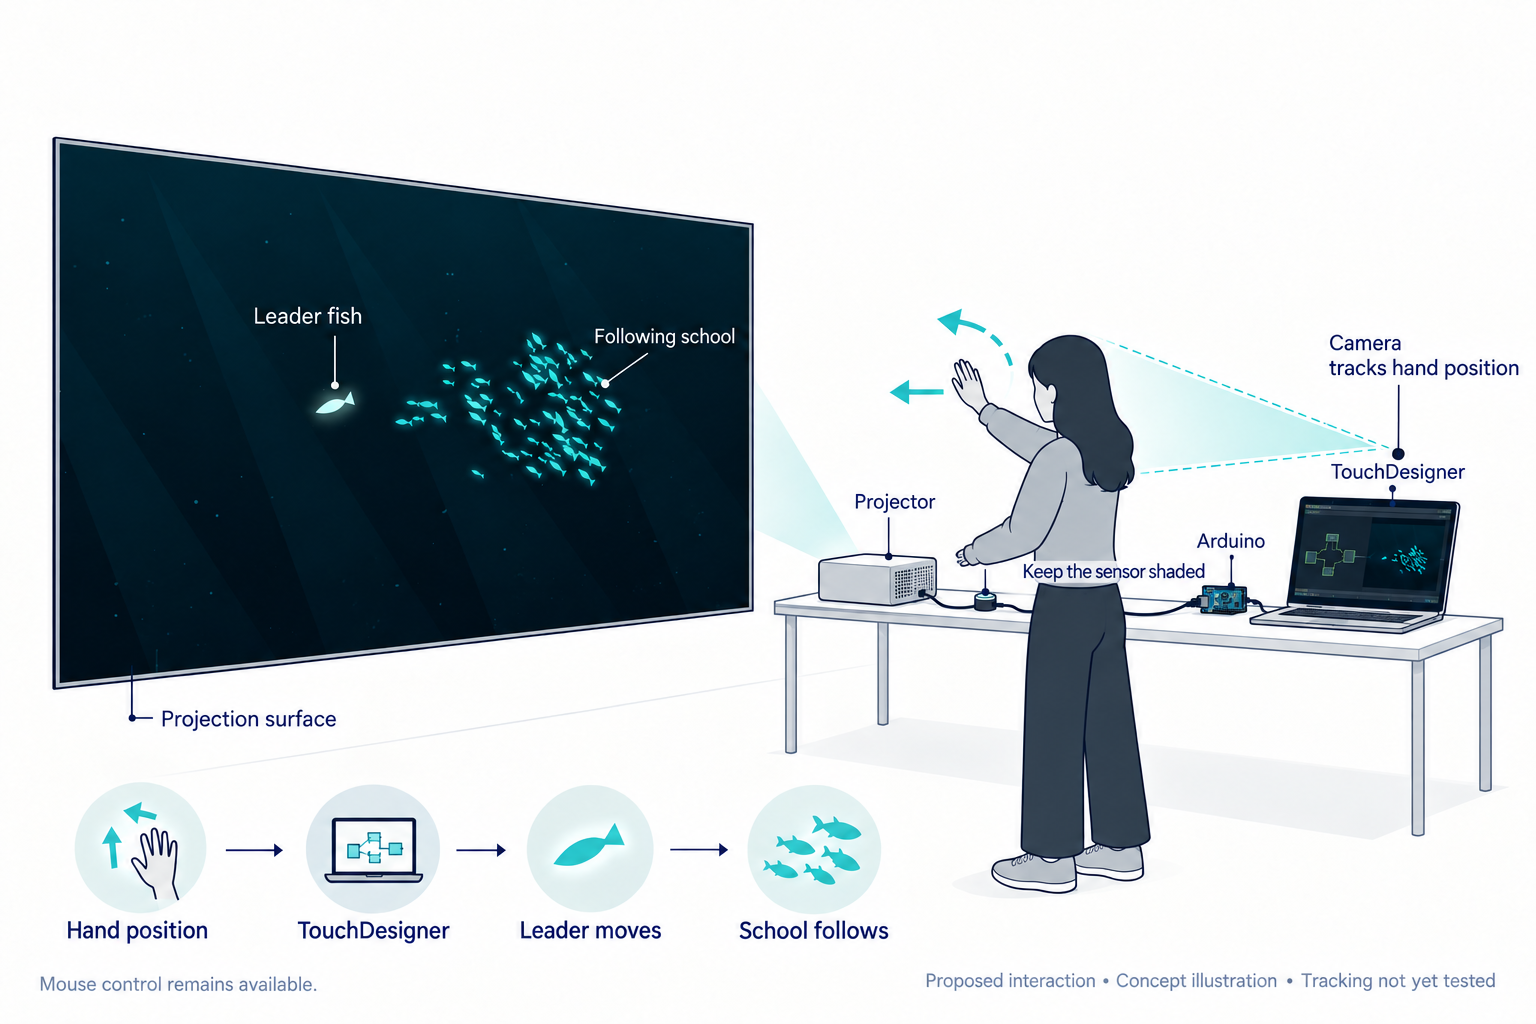
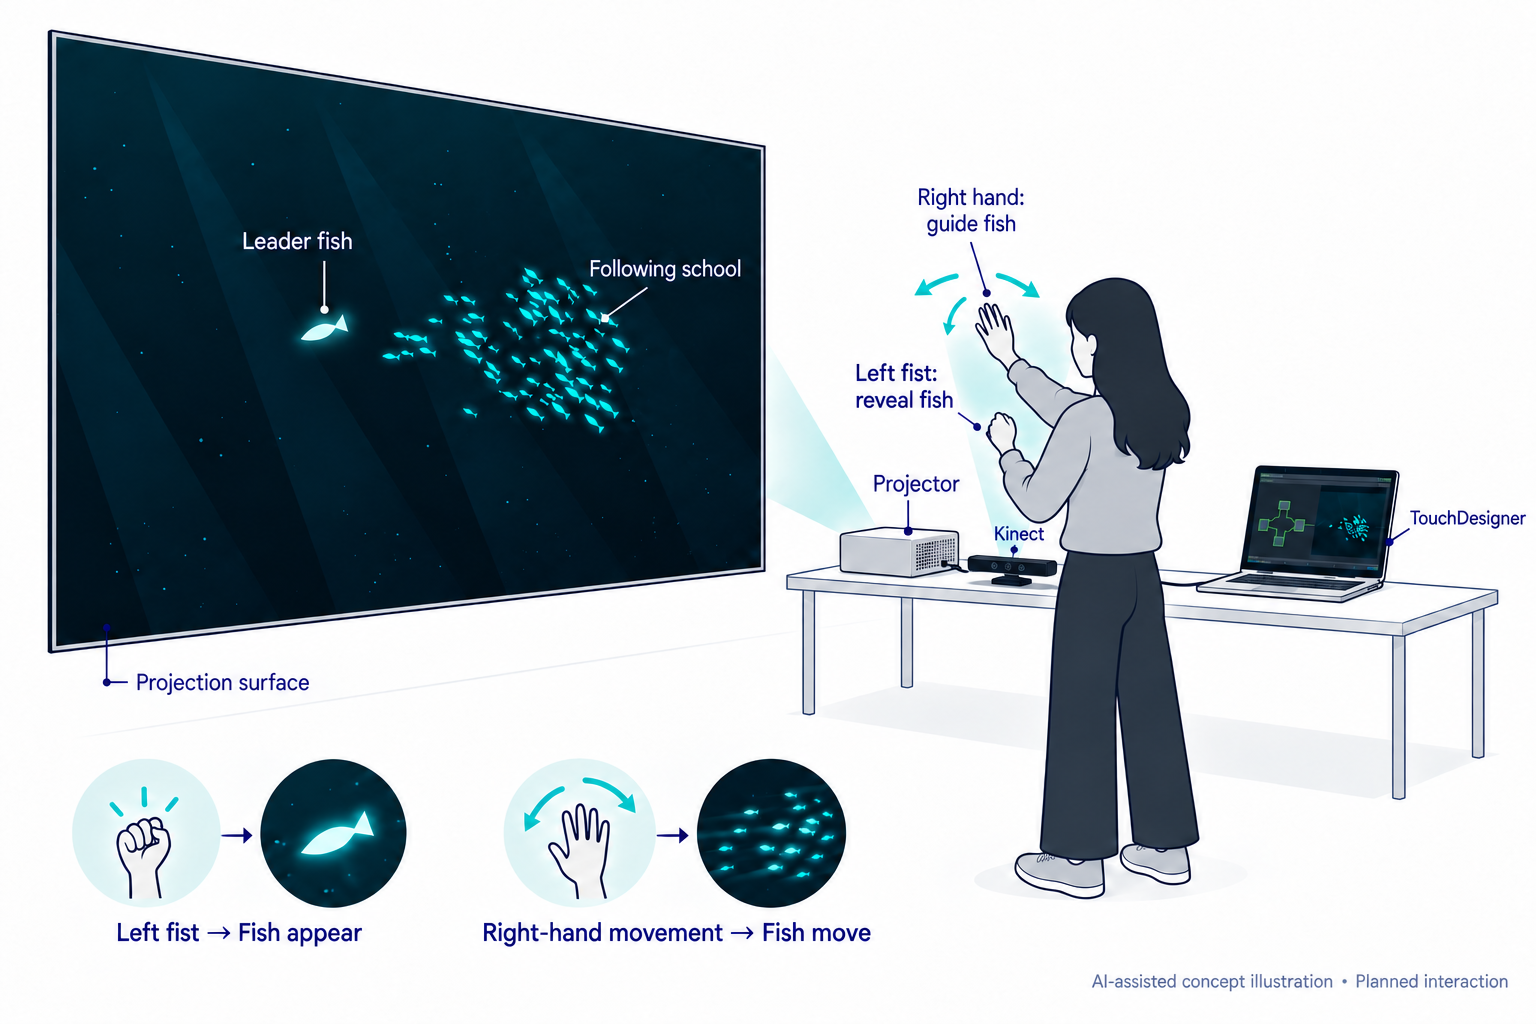
Replace website with latest uploaded Module 1 content

diff --git a/index.html b/index.html
@@ -107,8 +107,8 @@ img {
     <h1 class="w3-xxxlarge w3-text-red"><b>Module 1</b></h1>
     <hr style="width:50px;border:5px solid red" class="w3-round">
     <h2>Activity Research</h2>
-    <h3>In Activity 1, I made my first attempt to use the Blink sample application for Arduino to see the full flow from code compilation to uploading to an onboard LED blink.<br>
-	In Activity 2, I primarily explored how to connect an Arduino to ProtoPie Connect so that data from physical sensors could influence the digital interface. By collecting sensor data via the Arduino and then using ProtoPie Connect to transmit that data to the interactive prototype, I was able to achieve real-time interaction between physical inputs and the digital interface. This activity gave me a deeper understanding of how hardware, data, and UI/UX prototypes are connected and work together.<br>
+    <h3>In Activity 1, I made my first attempt to use the Blink sample application for Arduino to see the full flow from code compilation to uploading to an onboard LED blink.<br><br>
+	In Activity 2, I primarily explored how to connect an Arduino to ProtoPie Connect so that data from physical sensors could influence the digital interface. By collecting sensor data via the Arduino and then using ProtoPie Connect to transmit that data to the interactive prototype, I was able to achieve real-time interaction between physical inputs and the digital interface. This activity gave me a deeper understanding of how hardware, data, and UI/UX prototypes are connected and work together.<br><br>
 	In this activity 3, I connected Arduino to TouchDesigner and used a potentiometer to control a circular visual effect in real time. I explored how sensor data can be transferred through serial communication and used to change digital visuals. I learned how to check Arduino data, connect basic TouchDesigner nodes, and adjust visual parameters. This helped me understand how physical inputs can create interactive visual experiences.
     </h3>
   </div>
@@ -157,11 +157,14 @@ img {
     <h2>Research Activity</h2>
     <hr style="width:50px;border:5px solid red" class="w3-round">
     <h2>Consumer Trend Research</h2>
-    <h3>I researched future home experiences using TrendBible and explored interaction examples from TrendWatching. I focused on sensory experiences and intuitive physical interaction as starting points for my project.<br><br>
-	Category 1 — Home Sensory Experiences<br>
-	TrendBible’s 2027 forecast discusses sensory-rich interiors and the desire for calm. This inspired me to explore darkness, light and moving imagery as elements of an interactive experience.<br>
-	Category 2 — Intuitive Home Interaction<br>
-	“Embedded Flexibility” discusses adaptable spaces and intuitive technology. This encouraged me to explore how simple physical actions could influence a digital environment.
+    <h3>I reviewed TrendBible's home forecasts and historical interaction examples from TrendWatching to explore possible directions for my project concept. From this research, I identified two areas of interest: sensory-rich environments and intuitive physical interaction.<br><br>
+Category 1: Sensory-rich Environments<br>
+I reviewed TrendBible's discussion of sensory-rich and calm home environments, particularly "Texture Drenching." This encouraged me to consider how light, movement and sound could work together to shape an atmosphere.<br>
+In my project concept, I interpreted this research through a dark ocean and glowing fish. I considered a simple scene as the foundation, with animated backgrounds, music and changing fish colours as possible additions. These are my artistic interpretations of the research, rather than features directly recommended by TrendBible.<br><br>
+		
+Category 2: Intuitive Physical Interaction<br>
+I also reviewed TrendBible's "Embedded Flexibility" and historical examples from TrendWatching. Stir Kinetic Desk helped me consider how physical actions and system responses could form an understandable connection.<br>
+This inspired me to explore a small number of gestures within my project concept: making a left fist to reveal the fish and moving my right hand to control the entire school. These interactions remain conceptual, and their clarity and consistency would need to be investigated through further exploration.
     </h3>
     <div class="grid">
       <img src="images/Research/1.png" style="width:100%" onclick="onClick(this)" alt="TrendBible’s sensory and calming home forecast provided a starting point for exploring light, atmosphere and participation.">
@@ -169,11 +172,15 @@ img {
       <img src="images/Research/3.png" style="width:100%" onclick="onClick(this)" alt="This historical example connects physical adjustment with responsive feedback. I used it to explore interaction principles rather than current product trends.">
     </div>
     <h2>Personas Research</h2>
-    <h3>I used Pew Research Center findings to develop two provisional personas: a simplicity-oriented technology user and a privacy-conscious participant. These are research interpretations, not interviewed individuals.<br><br>
-	Category 1 — Simplicity-oriented Technology User<br>
-	This persona represents someone who does not necessarily value complex personalization. I want to investigate whether clear feedback and simple controls support their participation.<br>
-	Category 2 — Privacy-conscious Participant<br>
-	This persona represents someone concerned about personal data collection. This encouraged me to consider clear explanations of camera use and an alternative mouse-control mode.
+    <h3>I developed two provisional personas based on Pew Research Center findings to consider my project concept from different perspectives. These personas are interpretations of secondary research, not interviewed individuals.<br><br>
+
+Category 1: Simplicity-oriented Technology User<br>
+Pew's research on smart speakers encouraged me to question whether more personalization and additional features always improve an experience. I developed a provisional persona who may place greater value on understandable controls and clear feedback.<br>
+This perspective influenced the structure of my concept: basic gesture interaction would form the core, while backgrounds, music and colour changes would remain supporting features for further exploration. I want these additions to enrich the experience while keeping the main interaction understandable.<br><br>
+
+Category 2: Privacy-conscious Technology User<br>
+I also researched the relationship between personal data collection and personalization. This informed a provisional persona who considers what technology senses and how that information is used.<br>
+For my project concept, this means investigating what Kinect tracks, what data TouchDesigner receives and whether the system stores any information. These questions will help me assess the technical approach and develop an accurate explanation of tracking later.
     </h3>
     <div class="grid">
       <img src="images/Research/4.png" style="width:100%" onclick="onClick(this)" alt="In Pew’s 2019 U.S. study, 43% of smart speaker owners did not consider personalization important. This informed my exploration of simpler interactions.">
@@ -181,15 +188,17 @@ img {
       <img src="images/Research/6.png" style="width:100%" onclick="onClick(this)" alt="Device ownership varies across age groups. However, ownership alone does not establish individual skills, needs or preferences.">
     </div>
     <h2>HMI Research</h2>
-    <h3>I used the instructor’s How Might We resources to turn research insights into open-ended questions. The questions focus on participation, understandable feedback and choice.<br><br>
-	Category 1 — Sensory Participation<br>
-	· Potential problem spaces include understanding action–visual relationships and accommodating different interaction preferences.<br>
-	· How might we make physical actions visibly influence a digital environment?<br>
-	· How might we support participation at a comfortable pace?<br>
-	Category 2 — Understandable Interaction<br>
-	· Potential problem spaces include discovering the controls and understanding camera use.<br>
-	· How might we make the interaction easy to discover?<br>
-	· How might we offer informed choices about participation?
+    <h3>I reviewed How Might We resources from Nielsen Norman Group and the Interaction Design Foundation. These helped me turn research findings into open-ended questions without prescribing fish, Kinect or projection as the solution.<br><br>
+
+Category 1: Sensory Experience and Visual Feedback<br>
+I identified two areas for investigation: the relationship between physical actions and visual changes, and the balance between sensory richness and interaction clarity.<br>
+· How might we make the relationship between physical actions and visual changes easy to understand?<br>
+· How might we combine sensory elements to create an expressive atmosphere while keeping the main interaction clear?<br><br>
+
+Category 2: Learning the Interaction and Tracking Transparency<br>
+I identified two further areas: discovering unfamiliar controls and understanding the purpose of tracking.<br>
+· How might we make an unfamiliar interaction easy to discover and learn?<br>
+· How might we clearly explain what an interactive system senses and how that information is used?<br>
     </h3>
     <div class="grid">
       <img src="images/Research/7.png" style="width:100%" onclick="onClick(this)" alt="This guidance helped me focus on the intended experience without requiring fish, a camera or a particular sensor in the question.">
@@ -197,16 +206,26 @@ img {
       <img src="images/Research/9.png" style="width:100%" onclick="onClick(this)" alt="I used these five tips to review my HMW questions, keeping them research-informed, outcome-focused, positive and open to different solutions.">
     </div>
     <h2>Project Path</h2>
-    <h3>
-	I want participants to reveal hidden fish through shading and influence their movement through a mouse or hand gestures. The focus is artistic exploration and sensory participation.<br><br>
-	Art Path<br>
-	I want participants to reveal hidden fish through shading and influence their movement through a mouse or hand gestures. The focus is artistic exploration and sensory participation.<br>
-	Working Approach<br>
-	I would prefer to collaborate to exchange ideas and combine technical and visual skills. If a suitable partner is not available, I can develop the project individually.<br>
-	Possible Direction 1 — Mouse Control<br>
-	Covering the Arduino light sensor gradually reveals the fish. The mouse guides a leader fish, while the others follow and maintain spacing.<br>
-	Possible Direction 2 — Hand Control<br>
-	Camera-based hand tracking guides the leader fish, while mouse control remains available. Tracking compatibility and stability require testing.
+    <h3>Art Path<br>
+Based on my research, I chose the Art path as the direction for my project concept. I want to explore the relationship between my physical gestures and digital life. Through darkness and glowing fish, I hope to express a transition from hidden life to visible movement. The concept focuses on atmosphere, motion and the relationship between physical actions and a projected environment.<br><br>
+		
+Category 1: Basic Gesture Interaction<br>
+My basic idea is to use Kinect to track both hands and send movement data to TouchDesigner. Making a fist with my left hand would gradually reveal glowing fish, while moving my right hand would change the position and swimming direction of the entire school. A projector would display the visuals on a wall.<br>
+The concept centres on the entire fish school responding to my movements. I want to explore gesture recognition, smooth group movement and clear visual feedback. The implementation would be adjusted according to further research and practical conditions.<br><br>
+
+Category 2: Supporting Sensory Features<br>
+Building on the basic concept, I am considering animated ocean backgrounds, atmospheric music and gradual fish-colour changes as supporting features within the same project concept.<br>
+These effects are intended to create a more dreamlike atmosphere. Whether to include them, how to combine them and how far to develop them will depend on the progress of the basic interaction.<br><br>
+		
+Working Approach:<br>
+I would prefer to collaborate, exchanging ideas and combining technical and visual skills to develop the concept. If I work independently, I will explore tracking, animation and projection gradually, according to the available equipment, time and my learning progress, before considering supporting effects.<br><br>
+
+Artistic Inspiration:<br>
+Studio Roosegaarde's GLOWING NATURE inspired me to consider how physical actions can reveal luminous life. My project concept explores an artistic interpretation of this relationship through gesture tracking and digital imagery.<br><br>
+
+Current Progress and Next Steps:<br>
+I have created a concept preview and installation illustrations with AI assistance to communicate the intended experience. The combination of Kinect, TouchDesigner and projection remains a proposed technical approach requiring further exploration.<br>
+Next, I will begin translating the concept into initial experiments, exploring the basic gesture interaction and gradually developing supporting elements such as backgrounds, music and colour changes according to practical results. Throughout this process, I will document outcomes, feedback and revisions to refine the project concept.
     </h3>
     <div class="grid">
       <img src="images/Research/1.png" style="width:100%" onclick="onClick(this)" alt="The home sensory trend inspires me to explore the atmosphere formed by light and darkness and develop it into an engaging digital ocean experience.">
@@ -222,23 +241,23 @@ img {
     <h1 class="w3-xxxlarge w3-text-red"><b>Project 1 Concept</b></h1>
     <hr style="width:50px;border:5px solid red" class="w3-round">
     <h2>Project 1 Concept</h2>
-    <p>ART Path — Signal → Visual (TouchDesigner)<br>
+    <p>ART Path — Gesture → Visual (Kinect + TouchDesigner)<br><br>
 Concept: <br>
-Light Beneath the Dark is a proposed interactive artwork combining Arduino and TouchDesigner. The scene begins as a dark ocean. Covering the light sensor gradually reveals glowing fish, while restoring light makes them slowly fade away.<br>
+My project concept is an interactive artwork using Kinect, TouchDesigner and a projector. Participants use hand gestures to gradually reveal and move the visuals created in TouchDesigner.<br><br>
 
 Interaction: <br>
-I plan to offer mouse control and camera-based hand tracking. Participants guide a leader fish, while the others follow with spacing, delay and smooth turning.<br>
+My idea is to use Kinect to track the movements of my hands and send the motion data to TouchDesigner to control the school of fish on the screen. The screen initially displays a deep, dark ocean; when I clench my left fist, a school of glowing fish gradually appears. At the same time, I can control the position and swimming direction of the entire school by moving my right hand. The fish will respond smoothly to my movements and maintain a certain distance from one another as they move, creating a natural school-swimming effect. Finally, the image is projected onto a wall, creating a connection between my body movements and the digital lifeforms in the projection. These are the interactive effects I plan to implement, though I still need to set up the connections and conduct testing.<br><br>
 
 Artistic Exploration: <br>
-The project explores darkness, hidden life and the relationship between physical actions and digital environments. Participants gradually discover how their presence influences the scene.<br>
+My project explores darkness, hidden life, and the relationship between bodily gestures and digital environments. By contrasting a deep, dark ocean background with schools of glowing fish, I aim to express the transformation of life from concealment to revelation. By controlling the schools of fish through gestures, I seek to explore how bodily movements translate into visual changes, allowing the digital ocean to take on a sense of life that responds to movement.<br><br>
 
 Inspiration: <br>
-Studio Roosegaarde’s GLOWING NATURE inspired my exploration of actions revealing luminous life. My project interprets this relationship through sensors and digital imagery.<br>
+Studio Roosegaarde's "GLOWING NATURE" inspired me to reflect on the connection between bodily movement and luminous life forms. I hope to translate this inspiration into a digital format, using Kinect gesture tracking, schools of glowing fish, and projections to explore how movement reveals hidden life and influences its motion.<br><br>
 
 Next Steps: <br>
-I will first develop mouse-controlled fish movement, then connect the light sensor and test hand tracking. Testing will focus on understandable controls, natural movement and clear responses to shading.
+I will first connect the Kinect to TouchDesigner to test hand tracking and left-hand fist recognition, and then link the movement of my right hand to the movement of the entire school of fish. Afterward, I will refine the dark ocean background, the fish's glow effects, and their swimming animations, and test the wall projection. I will focus on checking whether the gesture recognition is stable, whether the visual response is clear, and whether the fish's movements appear natural.
     </p>
-    <img src="images/Concept/13.png" style="width:100%" onclick="onClick(this)" alt="My idea is for participants to cover the Arduino light sensor with one hand to gradually reveal the glowing fish, while moving their other hand for the computer’s built-in camera to track. This movement guides the leader fish, while the other fish follow. The computer, Arduino and projector are placed on the same table, with TouchDesigner processing the visuals and projecting them onto the wall. This image was generated with AI assistance based on my ideas to illustrate the planned setup and interaction. The actual setup and effects still need to be tested.">
+    <img src="images/Concept/13.png" style="width:100%" onclick="onClick(this)" alt="This image was generated by AI based on my ideas and is used to show the planned layout and interaction methods of the device. The actual effect still needs to be tested.">
   </div>
   
    <!-- Modal for full size images on click-->
